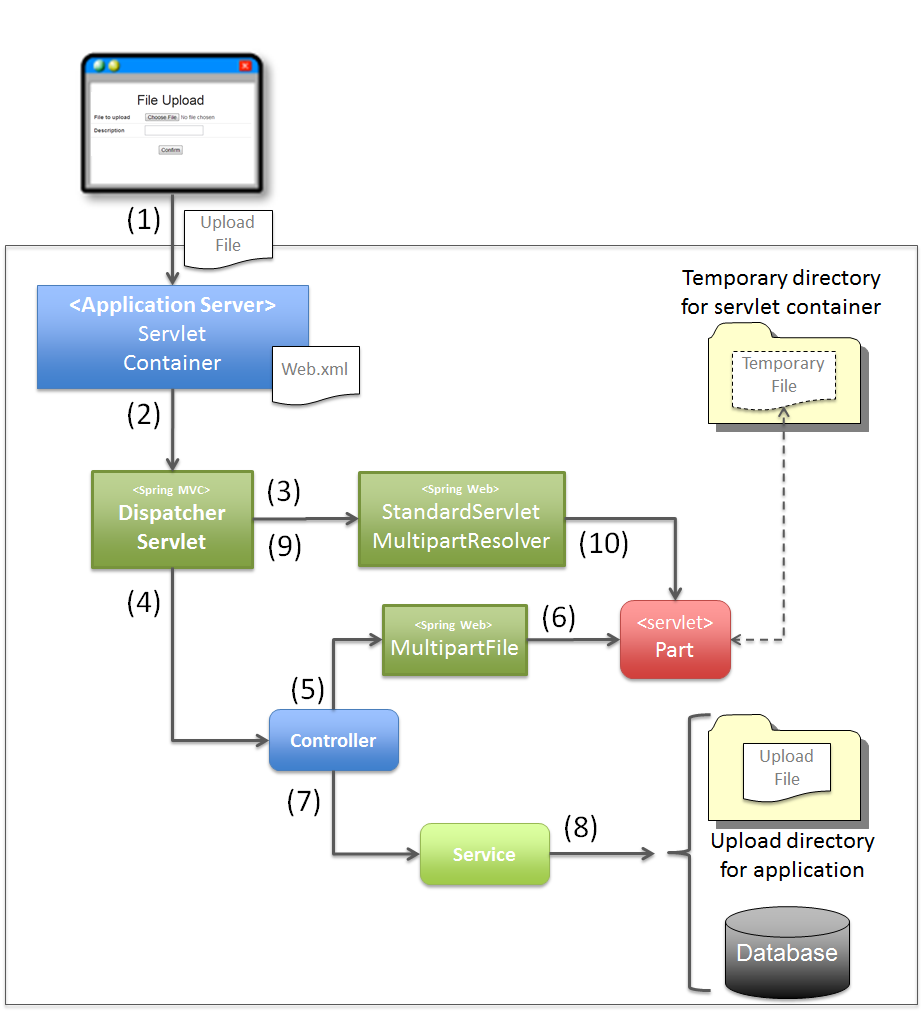
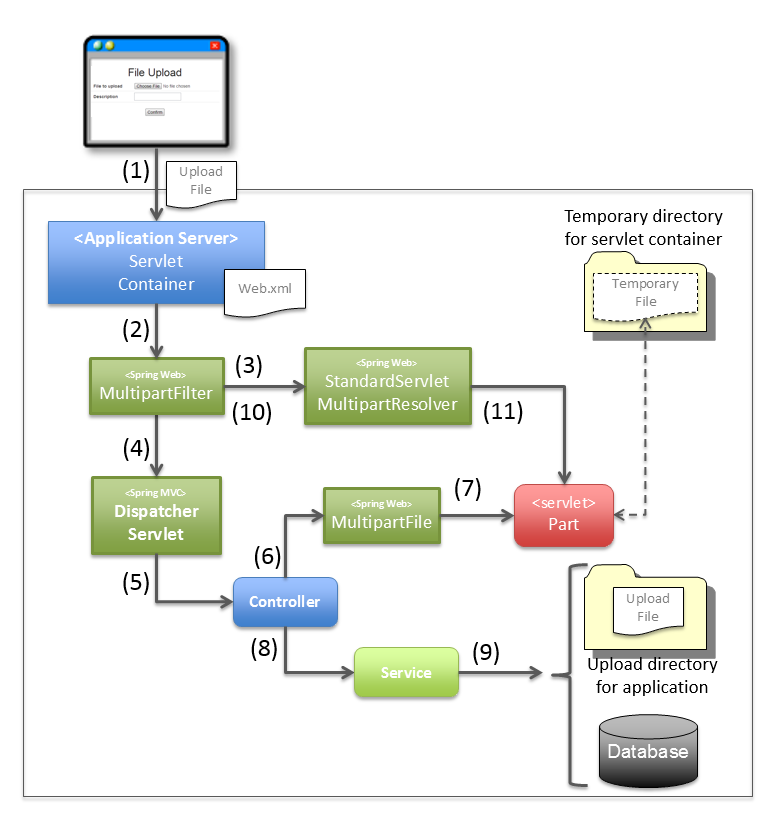
(cherry picked from commit cb34602d5ade9eaa88cff0783c67994edb240f9c) (cherry picked from commit 0b74a9fce948c4ce87e066daec32e6869c0f3d73)
Conflicts:
	source_en/ArchitectureInDetail/FileUpload.rst

Changed region(s): [[0.0, 0.031, 0.9935, 1.0], [0.9935, 0.2476, 1.0, 0.9905]]

diff --git a/source_en/ArchitectureInDetail/FileUpload.rst b/source_en/ArchitectureInDetail/FileUpload.rst
@@ -56,26 +56,28 @@ Basic flow of uploading files using File Upload functionality supported by Servl
    * - | (1)
      - | Select and upload the target files.
    * - | (2)
-     - | Servlet container receives \ ``multipart/form-data``\  request and calls \ ``org.springframework.web.servlet.DispatcherServlet``\ .
+     - | Servlet container receives \ ``multipart/form-data``\  request and calls \ ``org.springframework.web.multipart.support.MultipartFilter``\ .
    * - | (3)
-     - | \ ``DispatcherServlet``\  calls the method of \ ``org.springframework.web.multipart.support.StandardServletMultipartResolver``\  to enable File Upload functionality of Servlet 3.0 in Spring MVC.
+     - | \ ``MultipartFilter``\  calls the method of \ ``org.springframework.web.multipart.support.StandardServletMultipartResolver``\  to enable File Upload functionality of Servlet 3.0 in Spring MVC.
        | \ ``StandardServletMultipartResolver``\  generates ``org.springframework.web.multipart.MultipartFile`` object that wraps the API (``javax.servlet.http.Part``) introduced through Servlet 3.0.
    * - | (4)
-     - | \ ``DispatcherServlet``\  calls the processing method of Controller.
-       | \ ``DispatcherServlet``\  object created in step (3) binds to the Controller argument or form object.
+     - | Apply a filter chain in \ ``DispatcherServlet``\  from \ ``MultipartFilter``\ .
    * - | (5)
-     - | Controller calls the method of \ ``MultipartFile``\  object and fetches the contents and meta information (file name etc.) of uploaded file.
+     - | \ ``DispatcherServlet``\  calls handler method of Controller.
+       | \ ``MultipartFile``\  object generated in (3) is bound to Controller argument or form object.
    * - | (6)
-     - | \ ``MultipartFile``\  calls the method of \ ``Part``\  object introduced through Servlet 3.0, fetches the contents and meta information (file name etc.) of the uploaded file and returns the same to the Controller.
+     - | Controller calls a method of \ ``MultipartFile``\  object and fetch contents of uploaded file and meta information (file name etc.).
    * - | (7)
+     - | \ ``MultipartFile``\  calls a method of \ ``Part``\  object introduced from Servlet 3.0, fetches contents of uploaded file and meta information (file name etc.) and returns to Controller.
+   * - | (8)
      - | Controller calls the Service method and executes upload process.
        | It passes the contents and meta information (file name etc.) of the file retrieved from \ ``MultipartFile``\  object as an argument of Service method.
-   * - | (8)
-     - | Service stores the contents and meta information (file name etc.) of the uploaded file in the file or database.
    * - | (9)
-     - | \ ``DispatcherServlet``\  calls \ ``StandardServletMultipartResolver``\  and deletes the temporary file used by File Upload functionality of Servlet 3.0.
+     - | Service stores contents of uploaded file and meta information (file name etc.) in the file or database.
    * - | (10)
-     - | \ ``StandardServletMultipartResolver``\  calls the method of \ ``Part``\  object introduced through Servlet 3.0 and deletes the temporary file saved on disk.
+     - | \ ``MultipartFilter``\  calls \ ``StandardServletMultipartResolver``\  and deletes temporary file used by file upload function of Servlet 3.0.
+   * - | (11)
+     - | \ ``StandardServletMultipartResolver``\  calls a method of \ ``Part``\  object introducted from Servlet 3.0 and deletes the temporary file stored in the disc.
 
  .. note::
 
@@ -117,9 +119,9 @@ Classes provided by Spring Web for uploading a file are as follows:
    * - 5.
      - | org.springframework.web.multipart.support.
        | MultipartFilter
-     - | Class that enables fetching of request parameters in Servlet Filter process, at the time of multipart/form-data request.
-       | If this class is not used, request parameters cannot be fetched in Servlet Filter; hence CSRF Token Check functionality provided by Spring Security does not work correctly.
-       | To be more precise, as CSRF token cannot be fetched, it always throws CSRF token error leading to file upload failure.
+     - | A class which generates MultipartFile by calling a class which implements MultipartResolver from DI container, at the time of multipart/form-data request.
+       | If this class is not used, a request parameter cannot be fetched in Servlet Filter process when maximum size allowed in file upload exceeds the limit.
+       | Therefore, it is recommended to use MultipartFilter in this guideline.
 
  .. tip::
 
@@ -278,9 +280,12 @@ Perform the following settings to enable upload functionality of Servlet 3.0.
 
         When the files uploaded as application are to be saved as temporary files, they should be output to a directory other than the directory specified in \ ``<location>``\  element.
 
-Settings to enable fetching of request parameters in Servlet Filter processing
+Servlet Filter settings
 """"""""""""""""""""""""""""""""""""""""""""""""""""""""""""""""""""""""""""""""
-Perform the following settings to fetch request parameters in Servlet Filter processing at the time of multipart/form-data request.
+The operation when the maximum size allowed in file upload exceeds the limit at the time of multipart/form-data request, varies depending on the application server. \ ``MultipartException``\  generated when maximum size exceeds the limit depending on the application server is likely to be not detected and exception handling settings described later will be invalid.
+
+| Since this operation can be evaded by setting \ ``MiltipartFilter``\ , \ ``MiltipartFilter``\  setting is described as a prerequisite in this guideline.
+| Setting example is given below.
 
 - :file:`web.xml`
 
@@ -316,33 +321,12 @@ Perform the following settings to fetch request parameters in Servlet Filter pro
     
     When security measures are to be carried out using Spring Security, it should be defined before ``springSecurityFilterChain``.
     Further, when request parameters are accessed by a project-specific Servlet Filter, MultipartFilter should be defined before that Servlet Filter.
+
+ .. note:: **Default calling of MultipartResolver**
     
-
-
-Settings to link Spring MVC with upload functionality of Servlet 3.0
-""""""""""""""""""""""""""""""""""""""""""""""""""""""""""""""""""""""""""""""""
-Perform the following settings to link Spring MVC with Servlet 3.0 upload functionality.
-
-- :file:`spring-mvc.xml`
-
- .. code-block:: xml
-
-    <bean id="multipartResolver"
-        class="org.springframework.web.multipart.support.StandardServletMultipartResolver"> <!-- (1) -->
-    </bean>
-
- .. tabularcolumns:: |p{0.10\linewidth}|p{0.90\linewidth}|
- .. list-table::
-   :header-rows: 1
-   :widths: 10 90
-
-   * - Sr. No.
-     - Description
-   * - | (1)
-     - | Define a bean for \ ``StandardServletMultipartResolver``\  which is a MultipartResolver for Servlet 3.0.
-       | BeanID should be \ ``"multipartResolver"``\ .
-       |
-       | By performing these settings, the uploaded file can be treated as \ ``org.springframework.web.multipart.MultipartFile``\  and received as a Controller argument and form object property.
+    If \ ``MultipartFilter``\  is used,
+    \ ``org.springframework.web.multipart.support.StandardServletMultipartResolver``\  is called by default.
+    \ ``StandardServletMultipartResolver``\  should be able to generates uploaded file as \ ``org.springframework.web.multipart.MultipartFile``\  and receive as property of Controller argument and form object.
 
 
 Settings for exception handling
